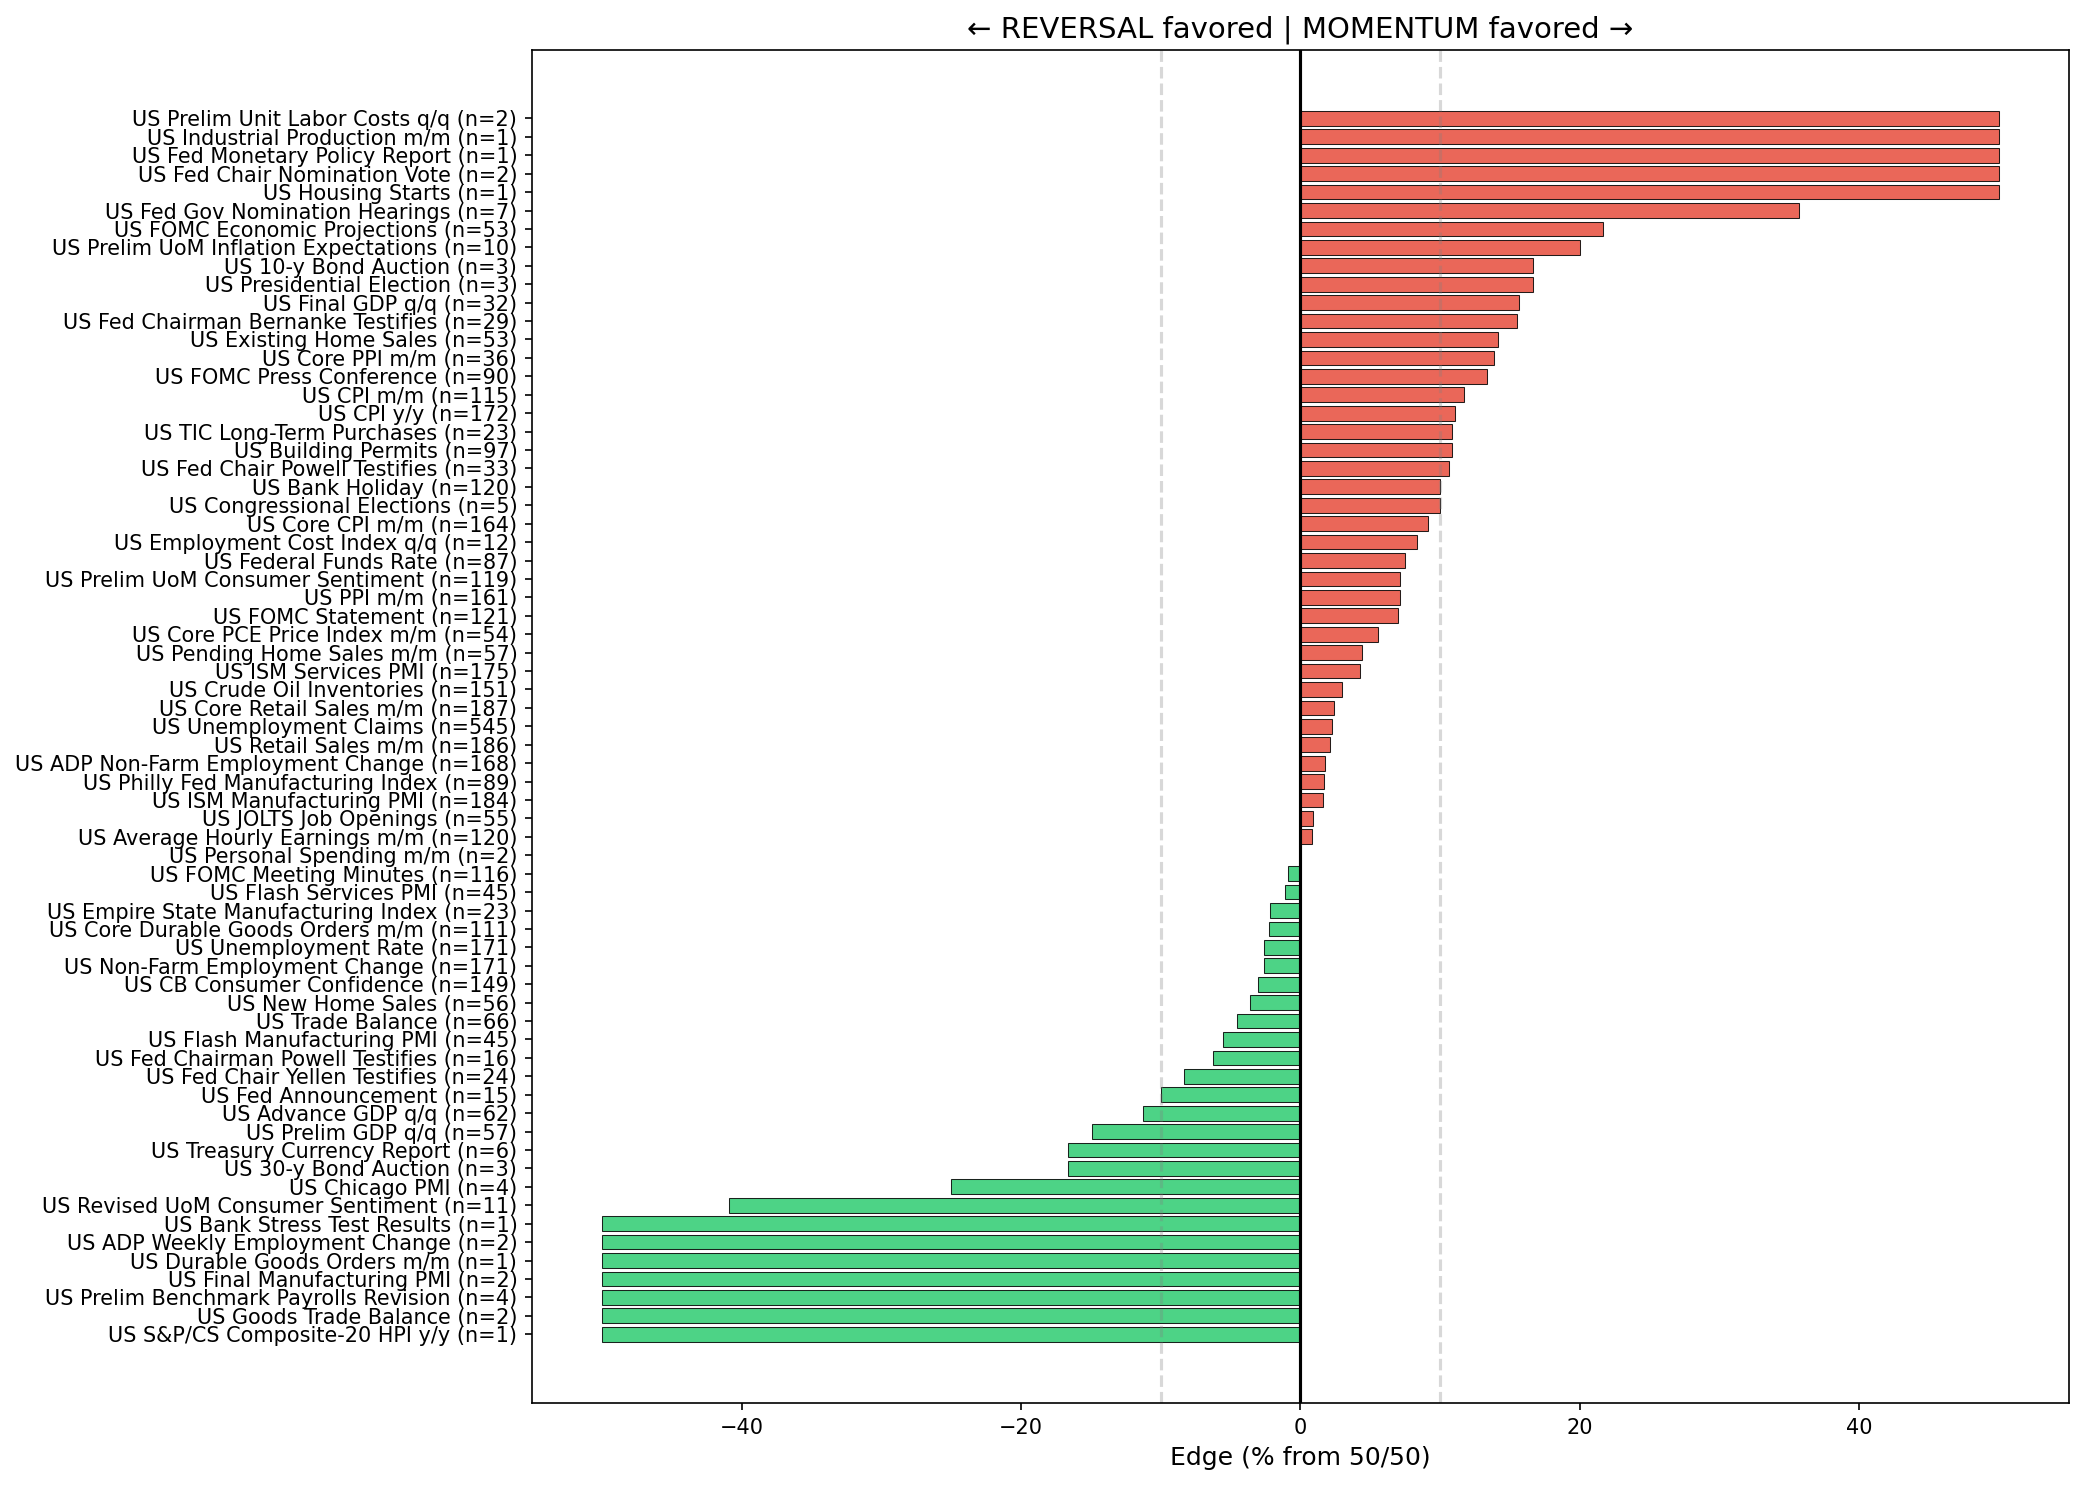
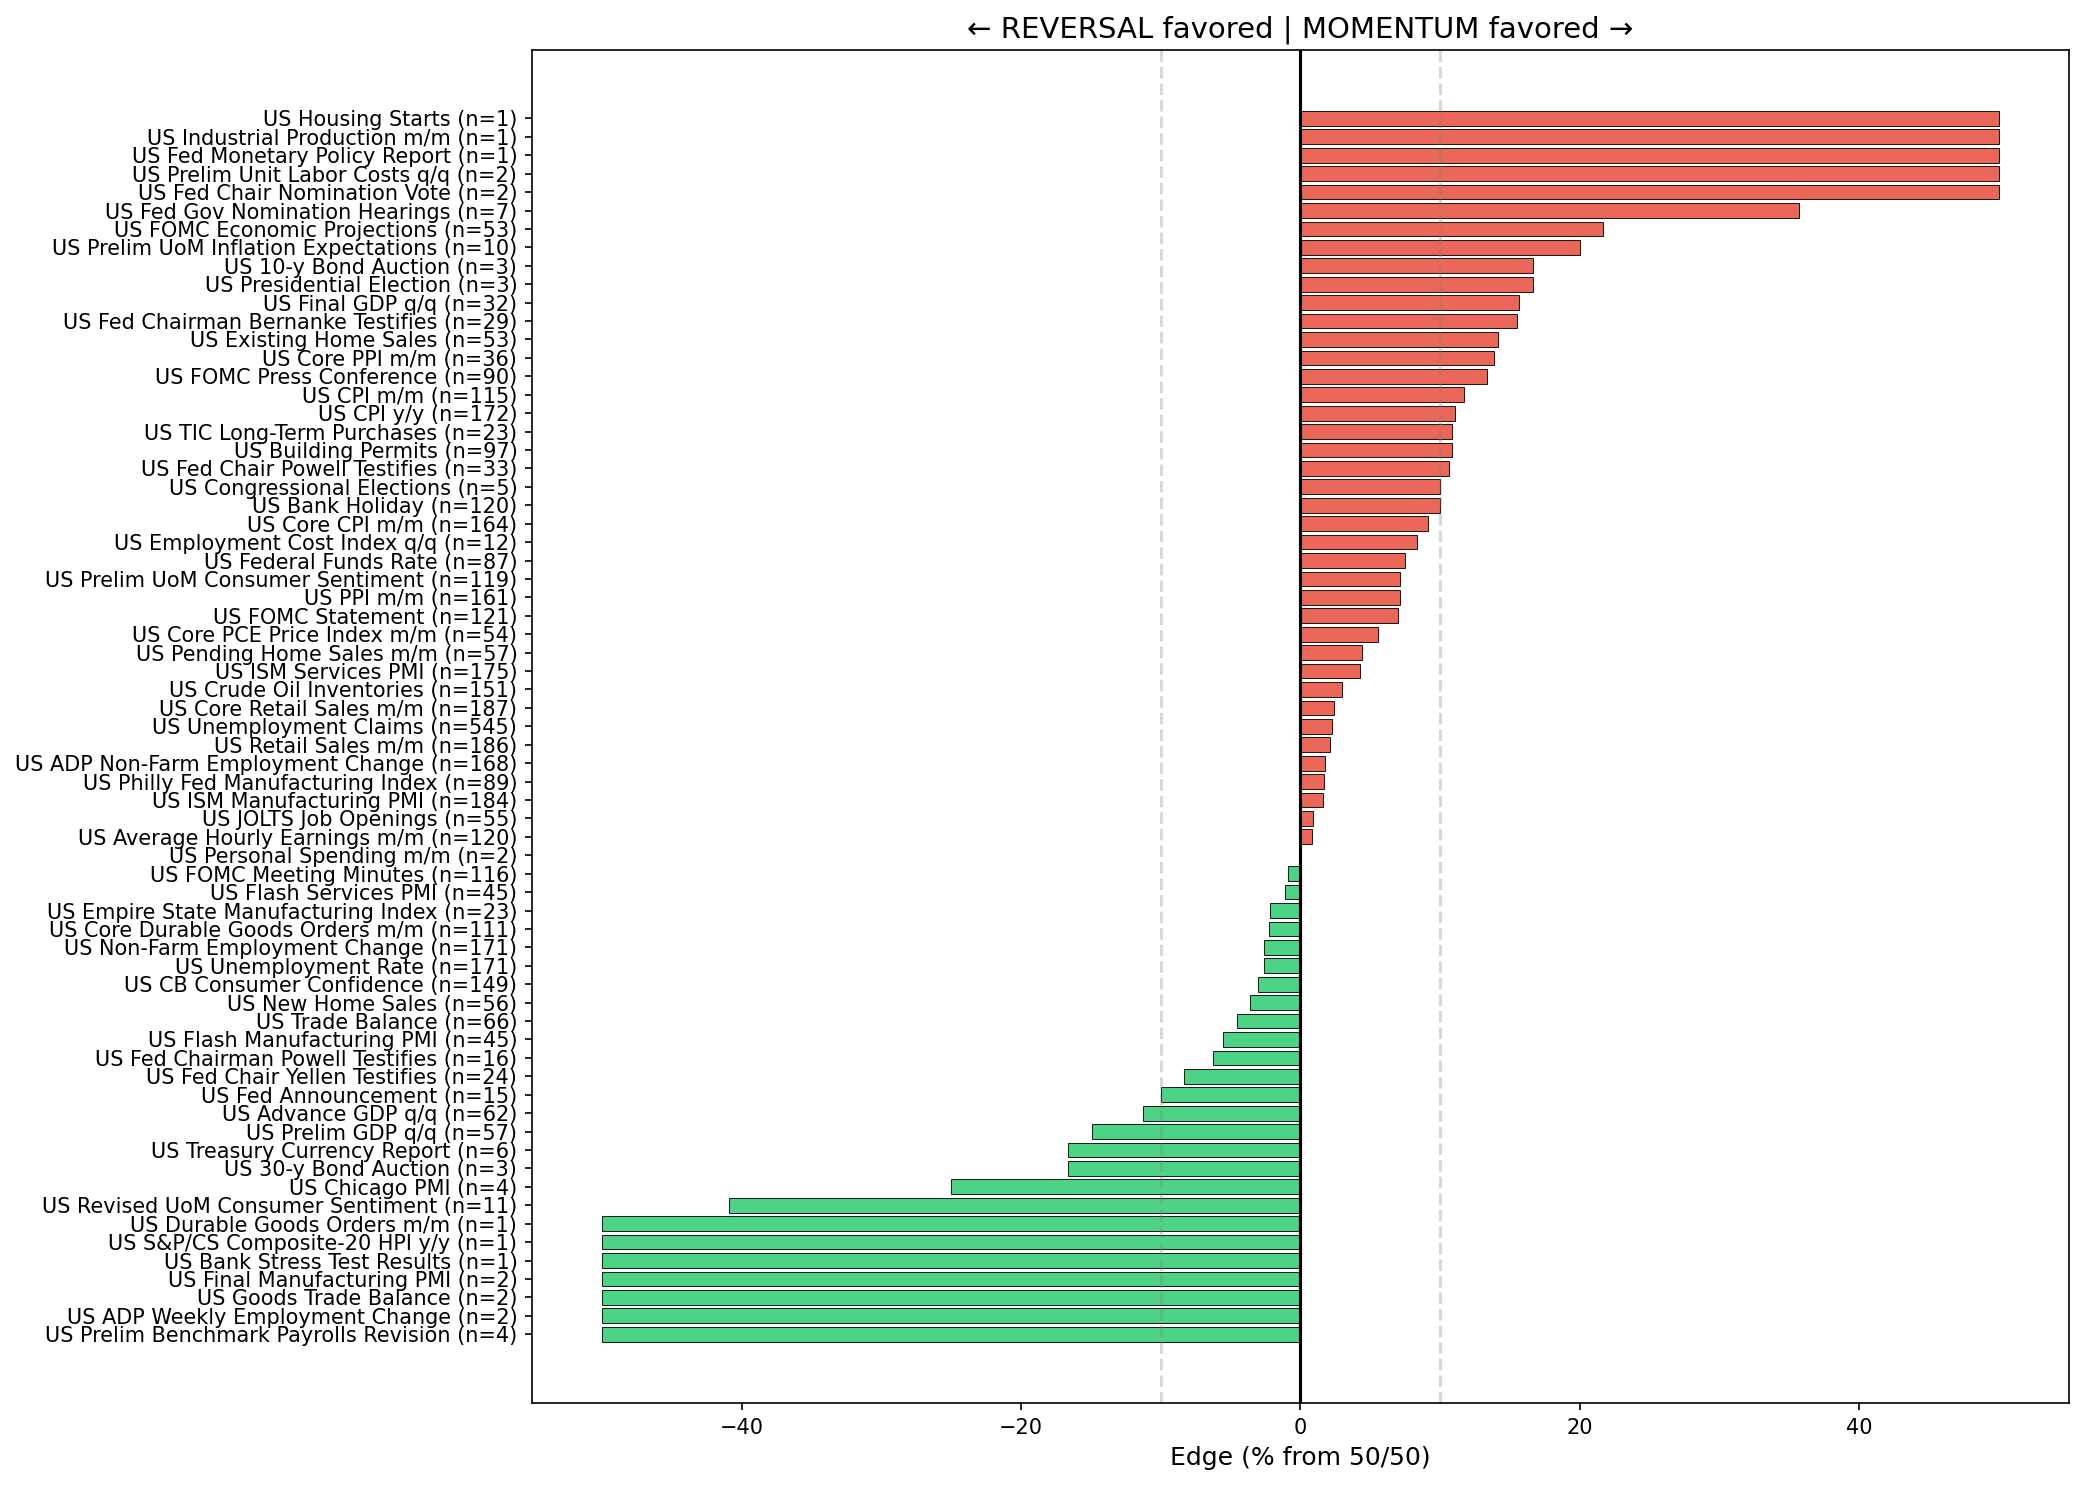
refactor(01-04): port causal run() to single polars->numpy model boundary
- Compute folds = cv_folds(y) on the polars Series BEFORE any to_numpy()
- print_cv_score now takes folds; never calls cv_folds on a numpy array
- Single boundary: feature_names=features.columns; X=features.to_numpy(); y_np=y.to_numpy()
- RF/DecisionTree/LogReg fit on X/y_np; importance/coefs as polars frames w/ retained names
- correlations via np.corrcoef; event_stats group_by/agg + write_csv; to_dummies readable tree
- iter_rows(named=True) print loops; remove all pandas; regenerate event_stats.csv + charts

diff --git a/causal_analysis.py b/causal_analysis.py
@@ -93,19 +93,25 @@ def cv_folds(y: pl.Series, desired: int = 5) -> int:
     return int(max(0, min(desired, min_count)))
 
 
-def print_cv_score(name: str, model, X: pd.DataFrame, y: pd.Series) -> None:
-    folds = cv_folds(y)
+def print_cv_score(name: str, model, X: np.ndarray, y_np: np.ndarray, folds: int) -> None:
+    """Print cross-validated accuracy. ``folds`` is precomputed on the polars y
+    Series (in run(), before the numpy boundary) and passed in, so this helper
+    never calls ``cv_folds`` on a numpy array."""
     if folds >= 2:
-        scores = cross_val_score(model, X, y, cv=folds)
+        scores = cross_val_score(model, X, y_np, cv=folds)
         print(f"{name} CV Accuracy: {scores.mean() * 100:.1f}% (+/- {scores.std() * 100:.1f}%)")
     else:
         print(f"{name} CV Accuracy: skipped; need at least 2 samples in each class")
 
 
-def plot_feature_importance(importance: pd.DataFrame, output_path: Path) -> None:
+def plot_feature_importance(importance: pl.DataFrame, output_path: Path) -> None:
     fig, ax = plt.subplots(figsize=(10, 8))
-    colors = plt.cm.Blues(np.linspace(0.3, 1, len(importance)))
-    ax.barh(importance["feature"], importance["importance"], color=colors)
+    colors = plt.cm.Blues(np.linspace(0.3, 1, importance.height))
+    ax.barh(
+        importance.get_column("feature").to_list(),
+        importance.get_column("importance").to_numpy(),
+        color=colors,
+    )
     ax.set_xlabel("Importance", fontsize=12)
     ax.set_title("Feature Importance (Random Forest)", fontsize=14)
     fig.tight_layout()
@@ -113,10 +119,11 @@ def plot_feature_importance(importance: pd.DataFrame, output_path: Path) -> None
     plt.close(fig)
 
 
-def plot_logistic_coefficients(coefs: pd.DataFrame, output_path: Path) -> None:
+def plot_logistic_coefficients(coefs: pl.DataFrame, output_path: Path) -> None:
     fig, ax = plt.subplots(figsize=(10, 8))
-    colors = ["#2ecc71" if c < 0 else "#e74c3c" for c in coefs["coefficient"]]
-    ax.barh(coefs["feature"], coefs["coefficient"], color=colors)
+    coef_values = coefs.get_column("coefficient").to_list()
+    colors = ["#2ecc71" if c < 0 else "#e74c3c" for c in coef_values]
+    ax.barh(coefs.get_column("feature").to_list(), coef_values, color=colors)
     ax.axvline(0, color="black", linewidth=1)
     ax.set_xlabel("Coefficient (Standardized)", fontsize=12)
     ax.set_title("Logistic Regression: Effect Direction\n← Favors REVERSAL | Favors MOMENTUM →", fontsize=14)
@@ -125,20 +132,23 @@ def plot_logistic_coefficients(coefs: pd.DataFrame, output_path: Path) -> None:
     plt.close(fig)
 
 
-def plot_event_edges(event_stats: pd.DataFrame, output_path: Path) -> None:
+def plot_event_edges(event_stats: pl.DataFrame, output_path: Path) -> None:
     fig, ax = plt.subplots(figsize=(14, 10))
-    event_stats_sorted = event_stats.sort_values("momentum_rate")
-    colors = ["#2ecc71" if x < 0.5 else "#e74c3c" for x in event_stats_sorted["momentum_rate"]]
+    event_stats_sorted = event_stats.sort("momentum_rate")
+    momentum = event_stats_sorted.get_column("momentum_rate").to_numpy()
+    colors = ["#2ecc71" if x < 0.5 else "#e74c3c" for x in momentum]
     ax.barh(
-        range(len(event_stats_sorted)),
-        event_stats_sorted["momentum_rate"] * 100 - 50,
+        range(event_stats_sorted.height),
+        momentum * 100 - 50,
         color=colors,
         alpha=0.85,
         edgecolor="black",
         linewidth=0.5,
     )
-    ax.set_yticks(range(len(event_stats_sorted)))
-    ax.set_yticklabels([f"{e} (n={n})" for e, n in zip(event_stats_sorted["event_type"], event_stats_sorted["n"])])
+    ax.set_yticks(range(event_stats_sorted.height))
+    event_names = event_stats_sorted.get_column("event_type").to_list()
+    counts = event_stats_sorted.get_column("n").to_list()
+    ax.set_yticklabels([f"{e} (n={n})" for e, n in zip(event_names, counts)])
     ax.axvline(0, color="black", linewidth=1.5)
     ax.axvline(-10, color="gray", linestyle="--", alpha=0.3)
     ax.axvline(10, color="gray", linestyle="--", alpha=0.3)
@@ -152,34 +162,45 @@ def plot_event_edges(event_stats: pd.DataFrame, output_path: Path) -> None:
 def run(input_path: Path = DEFAULT_INPUT, output_dir: Path = DEFAULT_OUTPUT_DIR) -> None:
     output_dir.mkdir(parents=True, exist_ok=True)
     df = load_resolved_results(input_path)
-    print(f"Resolved trades: {len(df)}")
-    print(f"Momentum: {df['target'].sum()} ({df['target'].mean() * 100:.1f}%)")
-    print(f"Reversal: {(1 - df['target']).sum()} ({(1 - df['target'].mean()) * 100:.1f}%)")
+    target_sum = int(df.get_column("target").sum())
+    target_mean = df.get_column("target").mean()
+    print(f"Resolved trades: {df.height}")
+    print(f"Momentum: {target_sum} ({target_mean * 100:.1f}%)")
+    print(f"Reversal: {df.height - target_sum} ({(1 - target_mean) * 100:.1f}%)")
     print("\nAvailable columns:")
-    print(df.columns.tolist())
+    print(df.columns)
 
     features, y = build_features(df)
-    X = features.copy()
-    print(f"\nTotal features: {len(features.columns)}")
+    print(f"\nTotal features: {features.width}")
     for col in features.columns:
         print(f"  • {col}")
 
-    rf = RandomForestClassifier(n_estimators=200, max_depth=8, random_state=42, n_jobs=-1)
-    rf.fit(X, y)
-    print_cv_score("Random Forest", rf, X, y)
-    print(f"Baseline (always predict majority): {max(y.mean(), 1 - y.mean()) * 100:.1f}%")
+    # CV fold count must be derived from the polars y Series (value_counts) BEFORE
+    # the numpy boundary; passing a numpy array to cv_folds would raise AttributeError.
+    folds = cv_folds(y)
 
-    importance = pd.DataFrame({"feature": X.columns, "importance": rf.feature_importances_}).sort_values("importance", ascending=True)
+    # --- The single polars -> numpy boundary (MIGRATE-03). Convert exactly once;
+    # feature_names is retained for importance / coefficient / tree labels. ---
+    feature_names = features.columns
+    X = features.to_numpy()
+    y_np = y.to_numpy()
+
+    rf = RandomForestClassifier(n_estimators=200, max_depth=8, random_state=42, n_jobs=-1)
+    rf.fit(X, y_np)
+    print_cv_score("Random Forest", rf, X, y_np, folds)
+    print(f"Baseline (always predict majority): {max(y_np.mean(), 1 - y_np.mean()) * 100:.1f}%")
+
+    importance = pl.DataFrame({"feature": feature_names, "importance": rf.feature_importances_}).sort("importance")
     plot_feature_importance(importance, output_dir / "feature_importance.png")
     print("\nFeature Importance Ranking:")
-    print(importance.sort_values("importance", ascending=False).to_string(index=False))
+    print(importance.sort("importance", descending=True))
 
     tree = DecisionTreeClassifier(max_depth=4, min_samples_leaf=25, random_state=42)
-    tree.fit(X, y)
-    print_cv_score("Decision Tree", tree, X, y)
+    tree.fit(X, y_np)
+    print_cv_score("Decision Tree", tree, X, y_np, folds)
 
     fig, ax = plt.subplots(figsize=(28, 14))
-    plot_tree(tree, feature_names=list(X.columns), class_names=["Reversal", "Momentum"], filled=True, rounded=True, fontsize=9, ax=ax)
+    plot_tree(tree, feature_names=feature_names, class_names=["Reversal", "Momentum"], filled=True, rounded=True, fontsize=9, ax=ax)
     ax.set_title("Decision Tree: Predicting Momentum vs Reversal", fontsize=14)
     fig.tight_layout()
     fig.savefig(output_dir / "decision_tree.png", dpi=150, bbox_inches="tight")
@@ -188,13 +209,13 @@ def run(input_path: Path = DEFAULT_INPUT, output_dir: Path = DEFAULT_OUTPUT_DIR)
     scaler = StandardScaler()
     X_scaled = scaler.fit_transform(X)
     lr = LogisticRegression(random_state=42, max_iter=1000)
-    lr.fit(X_scaled, y)
-    coefs = pd.DataFrame({"feature": X.columns, "coefficient": lr.coef_[0]}).sort_values("coefficient")
+    lr.fit(X_scaled, y_np)
+    coefs = pl.DataFrame({"feature": feature_names, "coefficient": lr.coef_[0]}).sort("coefficient")
     plot_logistic_coefficients(coefs, output_dir / "logistic_coefficients.png")
     print("\nLogistic Regression Coefficients:")
     print("Positive = pushes toward MOMENTUM")
     print("Negative = pushes toward REVERSAL\n")
-    print(coefs.to_string(index=False))
+    print(coefs)
 
     numeric_features = [
         "range_pct",
@@ -207,65 +228,73 @@ def run(input_path: Path = DEFAULT_INPUT, output_dir: Path = DEFAULT_OUTPUT_DIR)
         "time_to_first_sweep",
         "first_sweep_high",
     ]
-    correlations = pd.DataFrame({"feature": numeric_features, "correlation": [features[f].corr(y) for f in numeric_features]}).sort_values("correlation")
+    correlations = pl.DataFrame(
+        {
+            "feature": numeric_features,
+            "correlation": [
+                float(np.corrcoef(features.get_column(f).to_numpy(), y_np)[0, 1]) for f in numeric_features
+            ],
+        }
+    ).sort("correlation")
     print("\nCorrelation with MOMENTUM outcome:")
-    print(correlations.to_string(index=False))
+    print(correlations)
 
     event_stats = (
-        df.groupby("event_type")
+        df.group_by("event_type")
         .agg(
-            n=("target", "count"),
-            momentum_rate=("target", "mean"),
-            avg_range=("range_pct", "mean"),
-            avg_volume=("release_volume", "mean"),
-            avg_dist_midnight=("dist_from_midnight_open_pct", "mean"),
+            pl.len().alias("n"),
+            pl.col("target").mean().alias("momentum_rate"),
+            pl.col("range_pct").mean().alias("avg_range"),
+            pl.col("release_volume").mean().alias("avg_volume"),
+            pl.col("dist_from_midnight_open_pct").mean().alias("avg_dist_midnight"),
         )
-        .reset_index()
+        .with_columns(
+            (1 - pl.col("momentum_rate")).alias("reversal_rate"),
+            ((pl.col("momentum_rate") - 0.5).abs() * 100).alias("edge"),
+            pl.when(pl.col("momentum_rate") > 0.5).then(pl.lit("MOMENTUM")).otherwise(pl.lit("REVERSAL")).alias("direction"),
+        )
+        .sort("edge", descending=True)
     )
-    event_stats["reversal_rate"] = 1 - event_stats["momentum_rate"]
-    event_stats["edge"] = (event_stats["momentum_rate"] - 0.5).abs() * 100
-    event_stats["direction"] = event_stats["momentum_rate"].apply(lambda x: "MOMENTUM" if x > 0.5 else "REVERSAL")
-    event_stats = event_stats.sort_values("edge", ascending=False)
-    event_stats.to_csv(output_dir / "event_stats.csv", index=False)
+    event_stats.write_csv(output_dir / "event_stats.csv")
     print("\nEvents ranked by edge:")
-    print(event_stats[["event_type", "n", "momentum_rate", "edge", "direction"]].to_string(index=False))
+    print(event_stats.select("event_type", "n", "momentum_rate", "edge", "direction"))
     plot_event_edges(event_stats, output_dir / "event_edge.png")
 
-    gap_stats = df.groupby("gap_6pm_direction").agg(n=("target", "count"), momentum_rate=("target", "mean")).reset_index()
+    gap_stats = df.group_by("gap_6pm_direction").agg(pl.len().alias("n"), pl.col("target").mean().alias("momentum_rate"))
     print("\nGap Direction (6pm):")
-    print(gap_stats.to_string(index=False))
+    print(gap_stats)
 
-    df["midnight_dist_quartile"] = qcut_with_fallback_labels(
-        df["dist_from_midnight_open_pct"].fillna(0), 4, ["Q1 (far below)", "Q2", "Q3", "Q4 (far above)"]
+    df = df.with_columns(
+        qcut_with_fallback_labels(
+            df.get_column("dist_from_midnight_open_pct").fill_null(0), 4, ["Q1 (far below)", "Q2", "Q3", "Q4 (far above)"]
+        ).alias("midnight_dist_quartile")
     )
-    midnight_stats = df.groupby("midnight_dist_quartile", observed=False).agg(n=("target", "count"), momentum_rate=("target", "mean")).reset_index()
+    midnight_stats = df.group_by("midnight_dist_quartile").agg(pl.len().alias("n"), pl.col("target").mean().alias("momentum_rate"))
     print("\nDistance from Midnight Open:")
-    print(midnight_stats.to_string(index=False))
+    print(midnight_stats)
 
-    event_dummies = pd.get_dummies(df["event_type"], prefix="event")
-    X_readable = pd.concat(
-        [event_dummies, features[["first_sweep_high", "range_pct", "release_volume", "dist_from_midnight_open_pct", "gap_6pm_pct"]]],
-        axis=1,
-    )
+    event_dummies = df.select("event_type").to_dummies(columns=["event_type"])
+    readable_extra = features.select("first_sweep_high", "range_pct", "release_volume", "dist_from_midnight_open_pct", "gap_6pm_pct")
+    x_readable = pl.concat([event_dummies, readable_extra], how="horizontal")
     tree_readable = DecisionTreeClassifier(max_depth=3, min_samples_leaf=40, random_state=42)
-    tree_readable.fit(X_readable, y)
+    tree_readable.fit(x_readable.to_numpy(), y_np)
     print("\nDecision Rules:")
-    print(export_text(tree_readable, feature_names=list(X_readable.columns), max_depth=3))
+    print(export_text(tree_readable, feature_names=x_readable.columns, max_depth=3))
 
     print("\n" + "=" * 70)
     print("KEY FINDINGS")
     print("=" * 70)
     print("\nMOST PREDICTIVE FEATURES (Random Forest):")
-    for _, row in importance.sort_values("importance", ascending=False).head(5).iterrows():
+    for row in importance.sort("importance", descending=True).head(5).iter_rows(named=True):
         print(f"   • {row['feature']}: {row['importance']:.3f}")
     print("\nMOMENTUM-FAVORING EVENTS (play the box):")
-    for _, row in event_stats[event_stats["direction"] == "MOMENTUM"].head(5).iterrows():
+    for row in event_stats.filter(pl.col("direction") == "MOMENTUM").head(5).iter_rows(named=True):
         print(f"   • {row['event_type']}: {row['momentum_rate'] * 100:.0f}% momentum (n={row['n']})")
     print("\nREVERSAL-FAVORING EVENTS (play the opposite):")
-    for _, row in event_stats[event_stats["direction"] == "REVERSAL"].head(5).iterrows():
+    for row in event_stats.filter(pl.col("direction") == "REVERSAL").head(5).iter_rows(named=True):
         print(f"   • {row['event_type']}: {row['reversal_rate'] * 100:.0f}% reversal (n={row['n']})")
     print("\nSESSION CONTEXT INSIGHTS:")
-    for _, row in correlations.iterrows():
+    for row in correlations.iter_rows(named=True):
         if abs(row["correlation"]) > 0.05:
             direction = "↑ momentum" if row["correlation"] > 0 else "↓ reversal"
             print(f"   • {row['feature']}: {row['correlation']:.3f} ({direction})")
